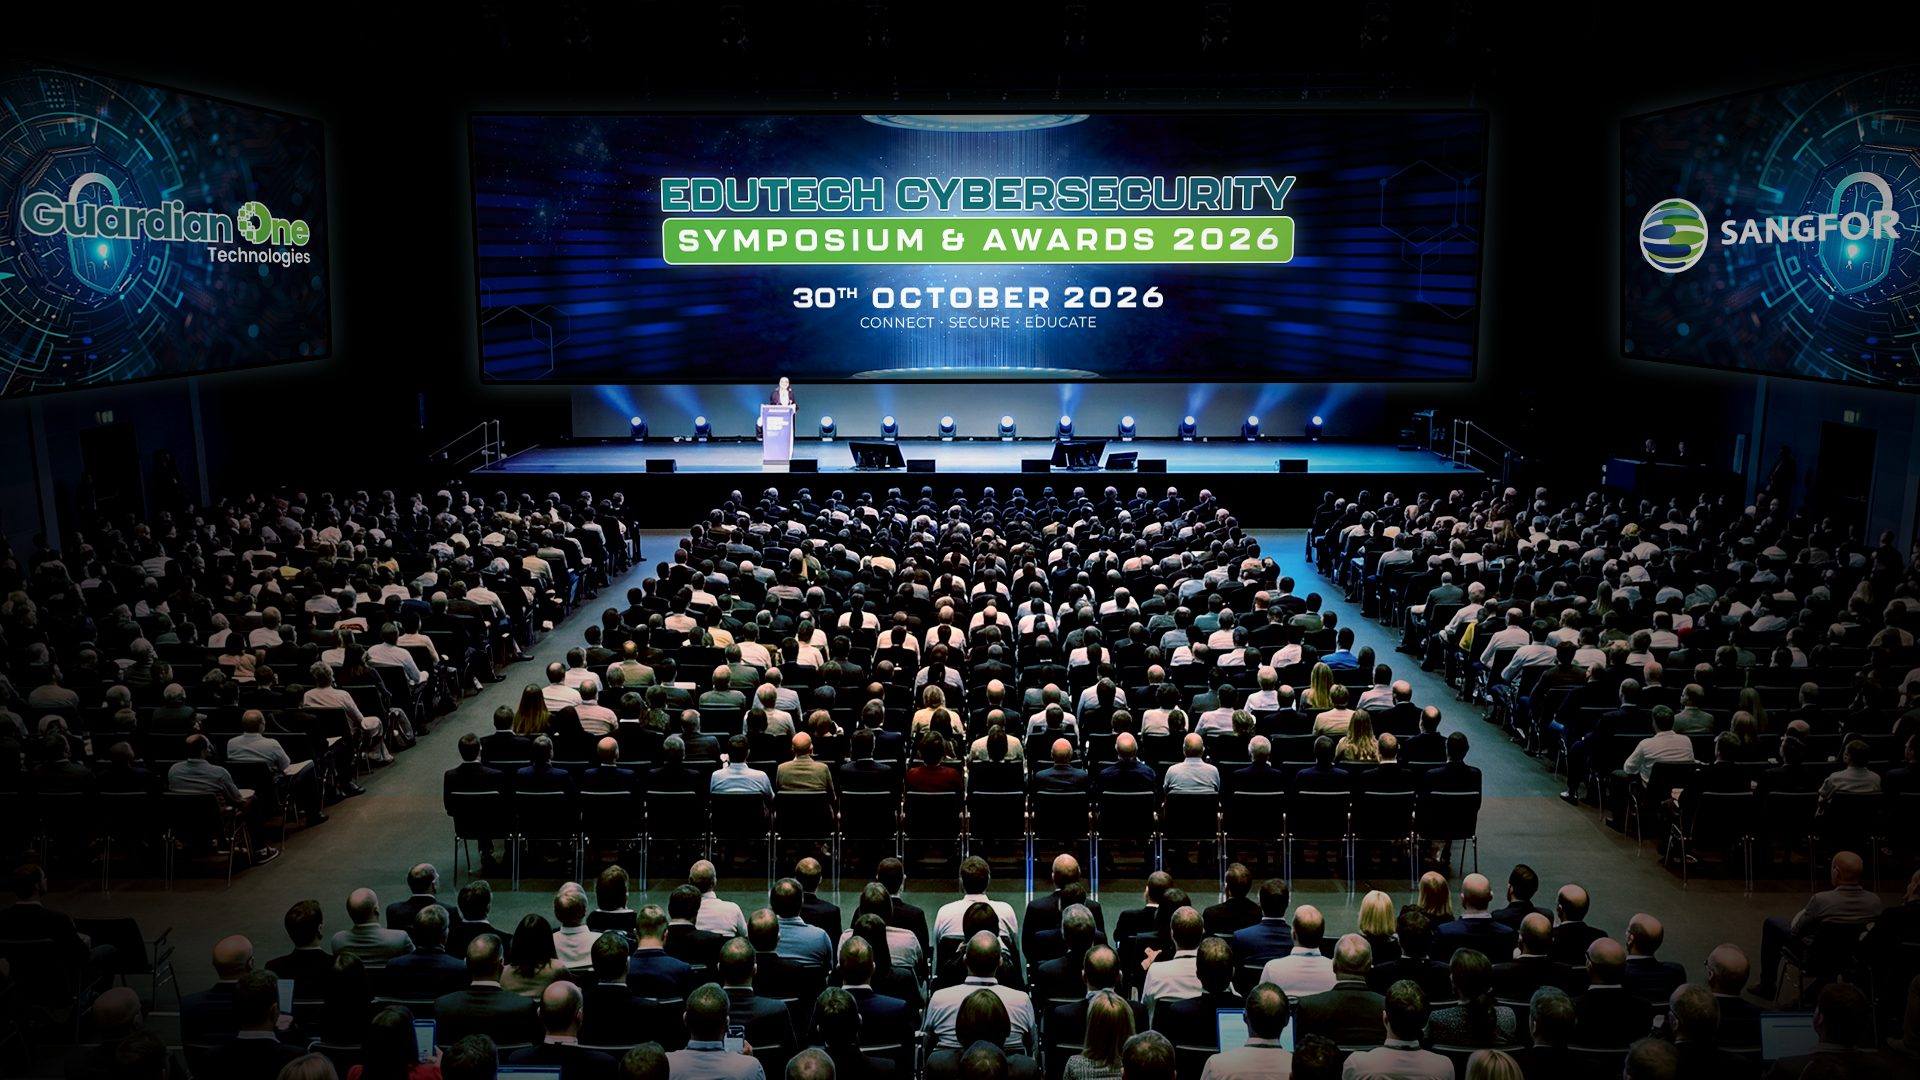
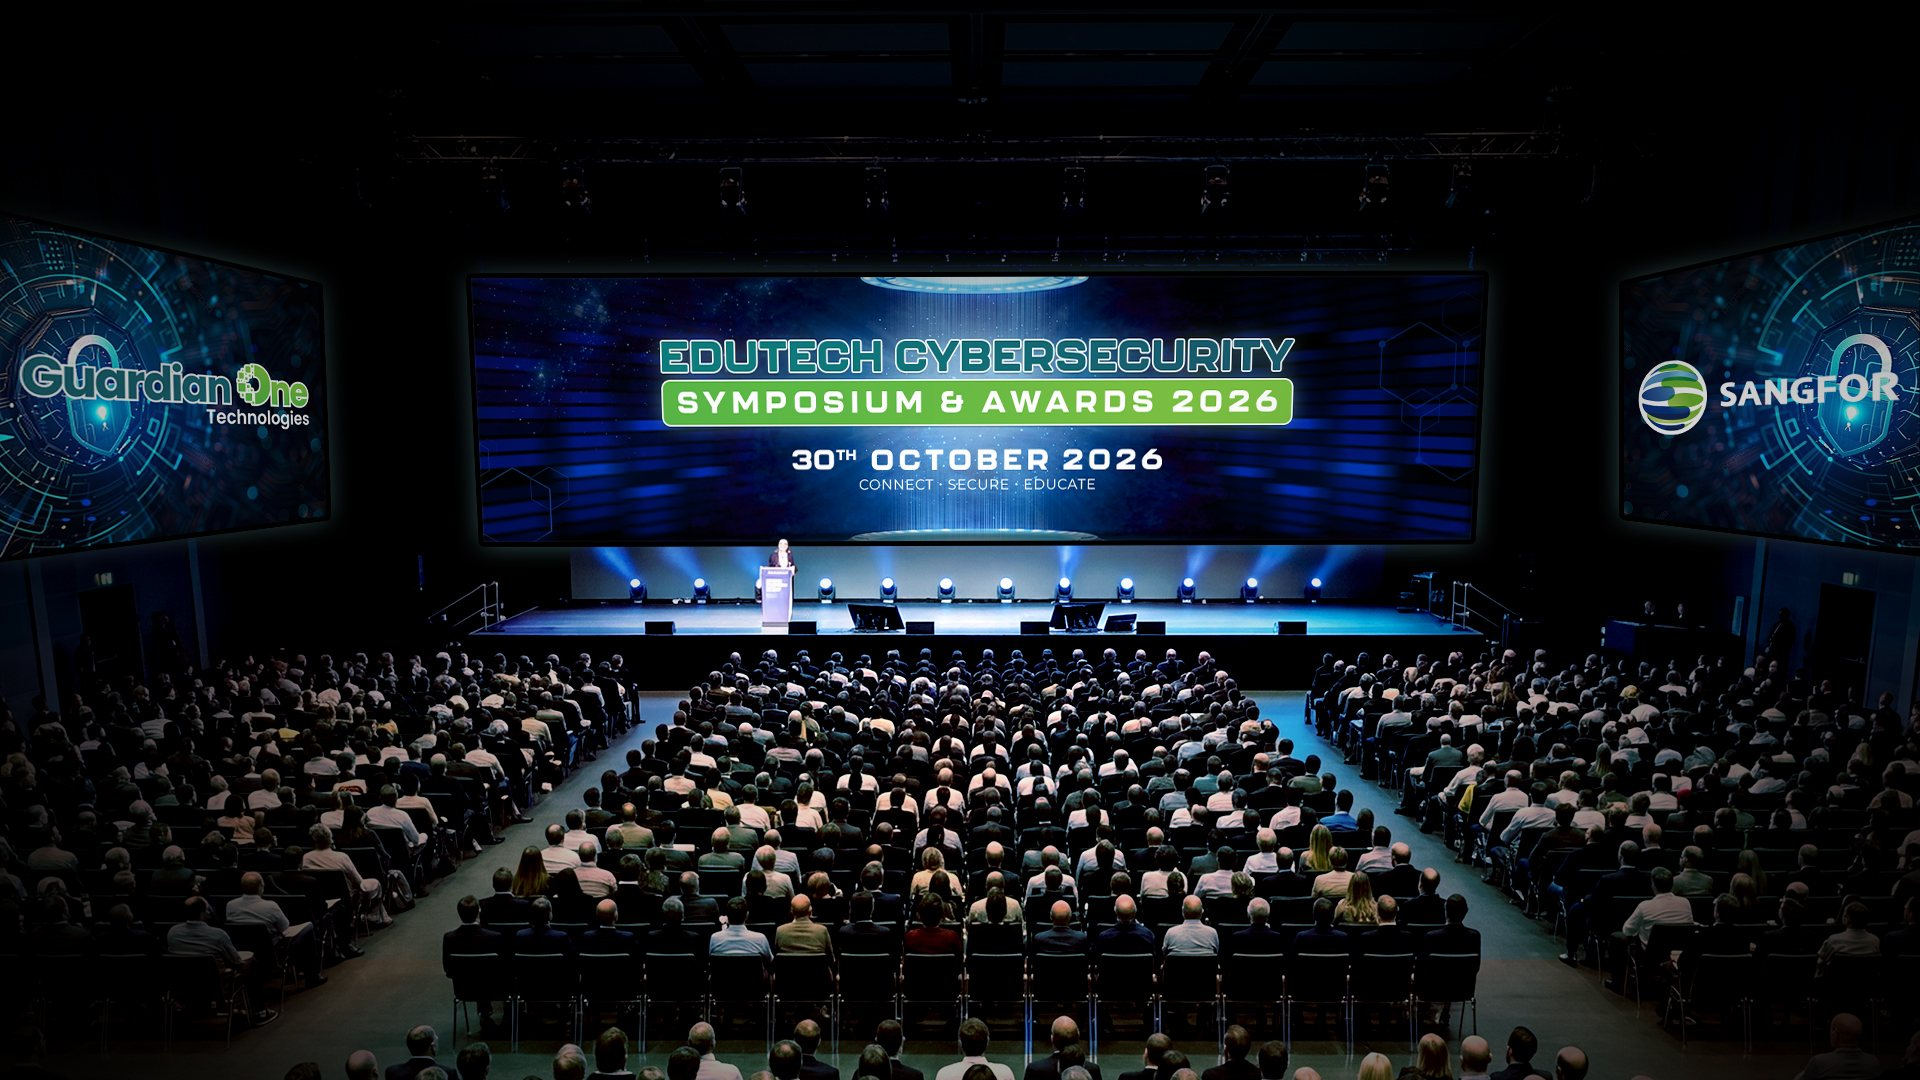
Update hero image to Option 5.5.5.jpg.jpeg

diff --git a/index.html b/index.html
@@ -56,7 +56,7 @@
         <section class="summit-hero" id="hero">
             <!-- Full-screen Background Image Banner -->
             <div class="hero-video-wrapper">
-                <img src="images/Option 5.5.jpg.jpeg?v=5.5" alt="Edtech Security Summit 2026" class="hero-bg-img">
+                <img src="images/Option 5.5.5.jpg.jpeg?v=5.5.5" alt="Edtech Security Summit 2026" class="hero-bg-img">
                 <div class="hero-video-overlay"></div>
             </div>
         </section>
